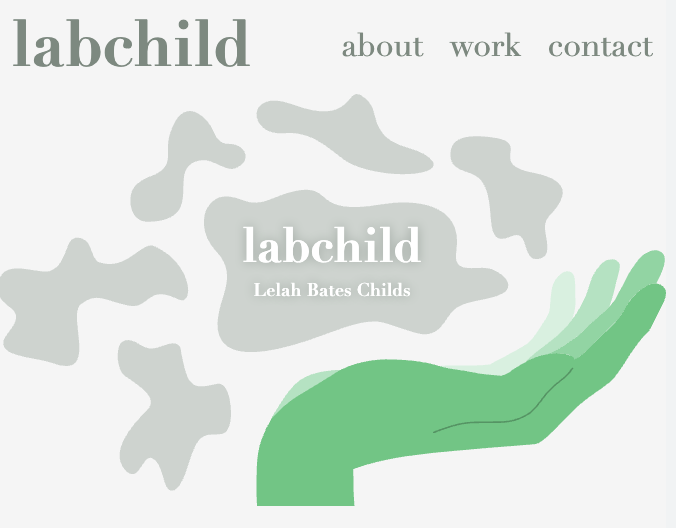
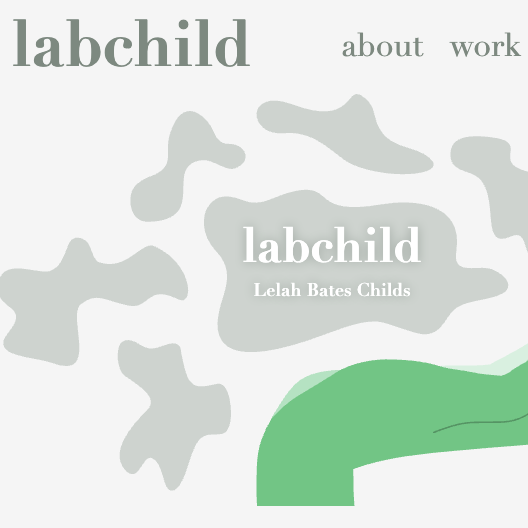
styles for tablet screen sizes added

diff --git a/assets/css/style.css b/assets/css/style.css
@@ -19,7 +19,12 @@ body {
     font-size: 1em;
 }
 
-/* mobile first design */
+p {
+    font-family: 'Trebuchet MS', 'Lucida Sans Unicode', 'Lucida Grande', 'Lucida Sans', Arial, sans-serif;
+    line-height: 1.3;
+}
+
+/* mobile first design, screen sizes below 640px */
 /* header & navigation */
 header {
     display: flex;
@@ -62,6 +67,7 @@ header nav ul li {
     margin: 0 1vw;
 }
 
+/* footer styles */
 footer {
     background-color: var(--lightGreen);
 }
@@ -82,7 +88,7 @@ footer {
 
 /* hero styles */
 .hero {
-    height: 40vh;
+    height: 50vh;
     text-align: center;
     background-image: url("../images/hand-vector-hero.svg");
     background-repeat: no-repeat;
@@ -107,6 +113,12 @@ footer {
     margin: 1vh;
 }
 
+.content-section h2 {
+    margin: 0 auto 4vh auto;
+    border-bottom: 1px solid var(--lightGreen);
+    width: 60%;
+}
+
  /* about me section */
 .avatar {
     width: 100%;
@@ -115,7 +127,7 @@ footer {
  .avatar img {
     max-width: 85%;
     filter: saturate(0);
-    margin: 2vw;
+    margin: 0 auto 2vw;
     border-radius: var(--corners);
 }
 
@@ -125,13 +137,14 @@ footer {
 
 /* my work section */
 .work-card {
-    margin: 2vw;
+    margin: 2vh auto;
     background-color: var(--transparent);
-    border: 1px solid;
     display: flex;
     flex-wrap: wrap;
     color: #fff;
     align-items: center;
+    width: 85%;
+    border-radius: 0 var(--corners);
 }
 
 .work-card:hover {
@@ -140,24 +153,24 @@ footer {
 
 .work-card a > img {
     max-width: 85%;
-    padding: 1vw;
     border-radius: var(--corners);
     filter: saturate(0);
 }
 
-.work-card a > img:hover {
+.work-card:hover a > img {
     filter: none;
+    max-width: 90%;
 }
 
 .work-thumbnail {
     flex: 1 85%;
-    margin-top: 7vw;
+    margin: 7vw auto;
 }
 
 .work-text {
     text-align:left;
     flex: 1 85%;
-    margin: 7vw;
+    margin: 0 auto 7vw;
     max-width: 85%;
 }
 
@@ -177,11 +190,78 @@ footer {
 
 .contact ul li a {
     text-decoration: none;
-    padding: 0 0 0 1vw;
+    padding: 0 1vw;
+    font-family: 'Trebuchet MS', 'Lucida Sans Unicode', 'Lucida Grande', 'Lucida Sans', Arial, sans-serif;
+    color: var(--grayText);
 }
 
 .icon img {
     max-width: 10vw;
-    padding: 0 1vw 0 0;
+    padding: 0 1vw;
 }
 
+/* styles for larger screens */
+@media screen and (min-width: 768px) {
+    .hero {
+        height: 70vh;
+    }
+
+    .hero .hero-name {
+        padding: 10rem;
+        font-size: 2em;
+    }
+    .flex-row {
+        display: flex;
+        flex-wrap: wrap;
+        justify-content: space-between;
+    }
+
+    .work-card {
+        flex: 2;
+        margin: 0 1vw;
+    }
+
+    .work-thumbnail {
+        margin: 2vw auto;
+        padding: 0;
+    }
+
+    .work-text {
+        flex: 0 100%;
+        margin: 0 auto 2vw;
+    }
+
+    .contact ul {
+        display: flex;
+        justify-content: space-around;
+        flex-wrap: wrap;
+        flex: 1;
+    }
+   
+    .contact .icon {
+        max-width: 3rem;
+    }
+
+    .contact .icon img {
+        width: 100%;
+    }
+
+    .content-section h2, .bio h3 {
+        font-size: 2em;
+    }
+
+    .foot-text {
+        display: flex;
+        flex-wrap: wrap;
+        justify-content: space-between;
+        font-size: 1.25em;
+        align-items: center;
+    }
+}
+
+@media screen and (min-width: 980px) {
+    .hero {
+        background-size: 50%;
+        background-position: center;
+    }
+}

diff --git a/index.html b/index.html
@@ -49,7 +49,9 @@
             </div>
             <div class="bio">
                 <h3>Lelah Bates Childs | labchild</h3>
-                <p>something about me.</p>
+                <p>Lelah is an artist living in Brooklyn, NY.
+                    She is currently enrolled in Columbia's coding bootcamp to further
+                    her career as a full stack developer.</p>
             </div>
         </article>
 
@@ -98,8 +100,8 @@
                     <div class="work-text">
                         <h3>Portfolio</h3>
                         <p>
-                            A central webpage to host links to all of my deployed projects.
-                            Also includes a brief bio and ways to contact me.
+                            A webpage to host links to all of my deployed projects.
+                            Includes a bio and ways to contact me.
                         </p>
                     </div>
                 </div>
@@ -108,8 +110,8 @@
 
         <!-- contact me section -->
         <section id="contact-me" class="content-section">
+            <h2>contact me</h2>
             <div class="flex-row contact">
-                <h2>contact me</h2>
                 <ul>
                     <li>
                         <div class="icon">
@@ -137,7 +139,7 @@
     <!-- footer -->
     <footer>
         <div class="foot-text">
-            <h2>made by labchild | Lelah Bates Childs</h2>
+            <h2>&#x1F680 made by labchild | Lelah Bates Childs</h2>
             <p>&copy; 2021 labchild</p>
         </div>
     </footer>
